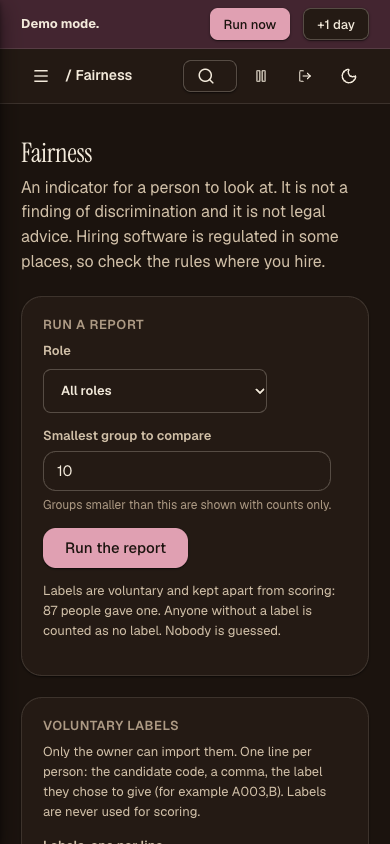
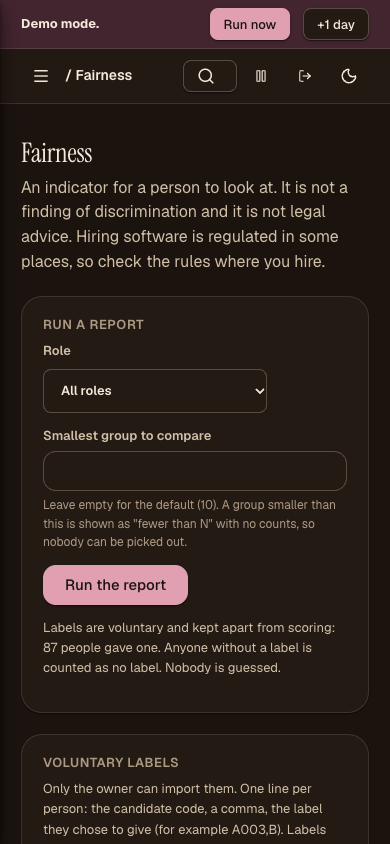
fix: stable fairness toolbar layout, base 1.2.5

Changed region(s): [[0.0923, 0.5237, 0.8923, 0.8009], [0.0923, 0.8318, 0.8308, 1.0]]

diff --git a/apps/web/app/(app)/fairness/page.tsx b/apps/web/app/(app)/fairness/page.tsx
@@ -56,8 +56,10 @@ export default function FairnessPage() {
       <PageHead title="Fairness" sub="An indicator for a person to look at. It is not a finding of discrimination and it is not legal advice. Hiring software is regulated in some places, so check the rules where you hire." />
       <Card title="Run a report" headingLevel={2}>
         <div className="cf-toolbar">
-          <label className="sx-label" style={{ display: "grid", gap: 8 }}>Role<select className="cf-select" value={role} onChange={(e) => setRole(e.target.value)}><option value="all">All roles</option>{(roles.data ?? []).map((r) => <option key={r.key} value={r.key}>{r.title}</option>)}</select></label>
-          <Field label="Smallest group to compare" inputMode="numeric" value={min} onChange={setMin} validate={(v) => (v === "" || (/^\d+$/.test(v) && Number(v) >= floor && Number(v) <= 200) ? null : `Use a number from ${floor} to 200`)} hint={`Leave empty for the default (${floor}). A group smaller than this is shown as "fewer than N" with no counts, so nobody can be picked out.`} />
+          <label className="sx-label" style={{ display: "grid", gap: 8 }}>Role<select className="cf-select" style={{ minWidth: 260 }} value={role} onChange={(e) => setRole(e.target.value)}><option value="all">All roles</option>{(roles.data ?? []).map((r) => <option key={r.key} value={r.key}>{r.title}</option>)}</select></label>
+          <div style={{ flex: "1 1 360px" }}>
+            <Field label="Smallest group to compare" inputMode="numeric" value={min} onChange={setMin} validate={(v) => (v === "" || (/^\d+$/.test(v) && Number(v) >= floor && Number(v) <= 200) ? null : `Use a number from ${floor} to 200`)} hint={`Leave empty for the default (${floor}). A group smaller than this is shown as "fewer than N" with no counts, so nobody can be picked out.`} />
+          </div>
           <Button variant="primary" disabled={!owner || !minOk} disabledReason={!owner ? "Only the owner can run the report" : `Use a number from ${floor} to 200`} onClick={async () => { await run.mutateAsync(); }}>Run the report</Button>
         </div>
         <p className="cf-mini">Labels are voluntary and kept apart from scoring: {q.data?.labelled ?? 0} people gave one. Anyone without a label is counted as no label. Nobody is guessed.</p>

diff --git a/packages/core-py/tests/test_hardening.py b/packages/core-py/tests/test_hardening.py
@@ -31,6 +31,16 @@ def test_a_real_deployment_refuses_an_example_or_short_session_secret(tmp_path, 
         create_base_app(s)
 
 
+def test_an_owner_password_needs_a_real_session_secret_even_in_demo_mode(tmp_path):
+    class WithOwner(BaseAppSettings):
+        owner_password_hash: str | None = None
+
+    owner = WithOwner(database_url=f"sqlite:///{tmp_path}/o.sqlite3", _env_file=None, demo_mode=True, owner_password_hash="'pbkdf2$test-only'")
+    assert any("SESSION_SECRET" in e for e in owner.runtime_errors())  # the public example secret would let anyone forge an owner token
+    assert not WithOwner(database_url=f"sqlite:///{tmp_path}/p.sqlite3", _env_file=None, demo_mode=True, owner_password_hash="'pbkdf2$test-only'", session_secret=GOOD_SECRET).runtime_errors()
+    assert not cfg(tmp_path, demo_mode=True).runtime_errors()  # a plain offline demo still starts
+
+
 def test_a_real_deployment_with_a_random_secret_starts(tmp_path):
     create_base_app(cfg(tmp_path, demo_mode=False, session_secret=GOOD_SECRET))
 
@@ -258,3 +268,28 @@ def test_a_database_error_does_not_print_the_values_of_the_statement(tmp_path):
         with pytest.raises(OperationalError) as e:
             c.execute(text("INSERT INTO nope VALUES (:secret)"), {"secret": "Jane Doe 4111-1111"})
     assert "Jane Doe" not in str(e.value) and "4111" not in str(e.value)
+
+
+def test_health_tells_a_stranger_nothing_but_ok(tmp_path):
+    from sendora_core.settings import Mode
+
+    app = create_base_app(cfg(tmp_path, mode=Mode.LIVE, kill_switch=True, demo_mode=False, session_secret=GOOD_SECRET), lambda: None)
+    assert TestClient(app).get("/health").json() == {"status": "ok"}
+
+
+def test_the_audit_chain_is_verified_in_batches_and_a_window_misses_only_old_edits(tmp_path):
+    from sendora_core.audit import record_audit, verify_audit_chain
+    from sendora_core.db import create_all, make_engine, make_session_factory
+    from sendora_core.models import AuditEntry
+
+    engine = make_engine(f"sqlite:///{tmp_path}/chain.sqlite3")
+    create_all(engine)
+    with make_session_factory(engine)() as s:
+        for i in range(1300):
+            record_audit(s, "t", "x", str(i), {"i": i})
+        s.commit()
+        assert verify_audit_chain(s) == (True, None)
+        s.execute(AuditEntry.__table__.update().where(AuditEntry.id == 5).values(actor="someone-else"))
+        s.commit()
+        assert verify_audit_chain(s) == (False, 5)
+        assert verify_audit_chain(s, limit=100) == (True, None)  # an edit older than the window is outside it, by design (documented)

diff --git a/packages/core-py/src/sendora_core/audit.py b/packages/core-py/src/sendora_core/audit.py
@@ -35,11 +35,25 @@ def record_audit(session: Session, actor: str, action: str, target: str | None =
     return entry
 
 
-def verify_audit_chain(session: Session) -> tuple[bool, int | None]:
-    """Return (ok, first_bad_id). ok is True when every link matches."""
-    prev = GENESIS
-    for e in session.scalars(select(AuditEntry).order_by(AuditEntry.id)):
-        if e.prev_hash != prev or e.entry_hash != _digest(prev, e.actor, e.action, e.target, e.detail, e.created_at):
-            return False, e.id
-        prev = e.entry_hash
-    return True, None
+def verify_audit_chain(session: Session, limit: int = 0) -> tuple[bool, int | None]:
+    """Return (ok, first_bad_id). ok is True when every link matches.
+
+    Rows are read in batches, so a log that has grown for years is never held in memory at once. `limit` 0 walks the whole log from the start.
+    A positive `limit` walks only the newest `limit` rows and trusts the first one it reads as the starting point, so an edit older than that window is not seen."""
+    batch_size = 500
+    start = 0
+    if limit > 0:
+        start = session.scalars(select(AuditEntry.id).order_by(AuditEntry.id.desc()).offset(limit - 1).limit(1)).first() or 0
+    prev: str | None = GENESIS if not start else None
+    last_id = start - 1
+    while True:
+        batch = list(session.scalars(select(AuditEntry).where(AuditEntry.id > last_id, AuditEntry.id >= start).order_by(AuditEntry.id).limit(batch_size)))
+        if not batch:
+            return True, None
+        for e in batch:
+            if (prev is not None and e.prev_hash != prev) or e.entry_hash != _digest(e.prev_hash, e.actor, e.action, e.target, e.detail, e.created_at):
+                return False, e.id
+            prev = e.entry_hash
+        last_id = batch[-1].id
+        for e in batch:
+            session.expunge(e)  # checked rows are not kept in memory; the caller's own objects stay

diff --git a/packages/core-py/src/sendora_core/settings.py b/packages/core-py/src/sendora_core/settings.py
@@ -98,13 +98,16 @@ class BaseAppSettings(BaseSettings):
     def runtime_errors(self) -> list[str]:
         """Problems that stop the app from starting. Checked once when the API or the worker starts."""
         out: list[str] = []
-        if not self.demo_mode:
+        # The session secret must be real whenever a real owner exists: DEMO_MODE off, or an owner password set (also while DEMO_MODE stays on).
+        # A pure demo with no owner password keeps the public demo logins and a demo secret, nothing else. MODE=live with DEMO_MODE on is reported by problems().
+        needs_real_secret = not self.demo_mode or bool(getattr(self, "owner_password_hash", None))
+        if needs_real_secret:
             if len(self.session_secret) < MIN_SECRET_LENGTH or PLACEHOLDER_SECRET.search(self.session_secret):
                 out.append(
                     f"SESSION_SECRET is missing, too short (under {MIN_SECRET_LENGTH} characters) or still an example value. "
                     "Anyone who has read the public code could sign in as the owner. Create one with: python3 -c \"import secrets; print(secrets.token_urlsafe(48))\""
                 )
-        elif self.database_url.startswith("postgresql") and not self.allow_demo_server:
+        if self.demo_mode and self.database_url.startswith("postgresql") and not self.allow_demo_server:
             out.append(
                 "DEMO_MODE is true while DATABASE_URL points at a server database. A demo has public logins and a reset button that erases the data. "
                 "Set DEMO_MODE=false (and OWNER_PASSWORD_HASH), or set ALLOW_DEMO_SERVER=true for a throw away trial."

diff --git a/packages/core-py/src/sendora_core/app.py b/packages/core-py/src/sendora_core/app.py
@@ -107,7 +107,7 @@ def create_base_app(settings: BaseAppSettings, factory: sessionmaker[Session] | 
 
     @app.get("/health")
     def health():
-        return {"status": "ok", "app": settings.app_name, "mode": settings.mode.value, "kill_switch": settings.kill_switch}
+        return {"status": "ok"}  # a stranger learns nothing about the mode or the kill switch; signed in people read those from the app
 
     @app.get("/ready")
     def ready():
